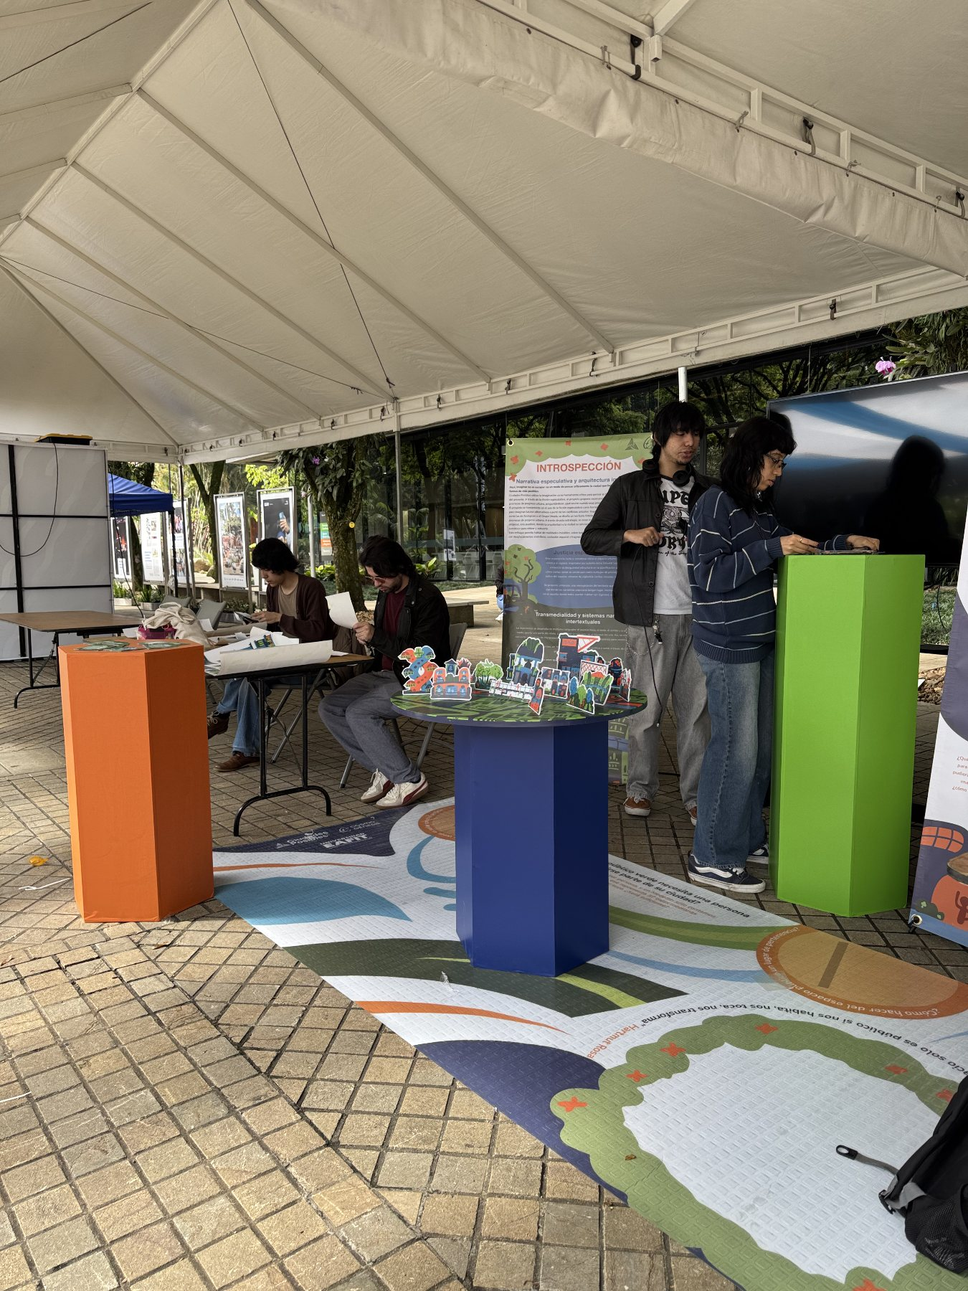
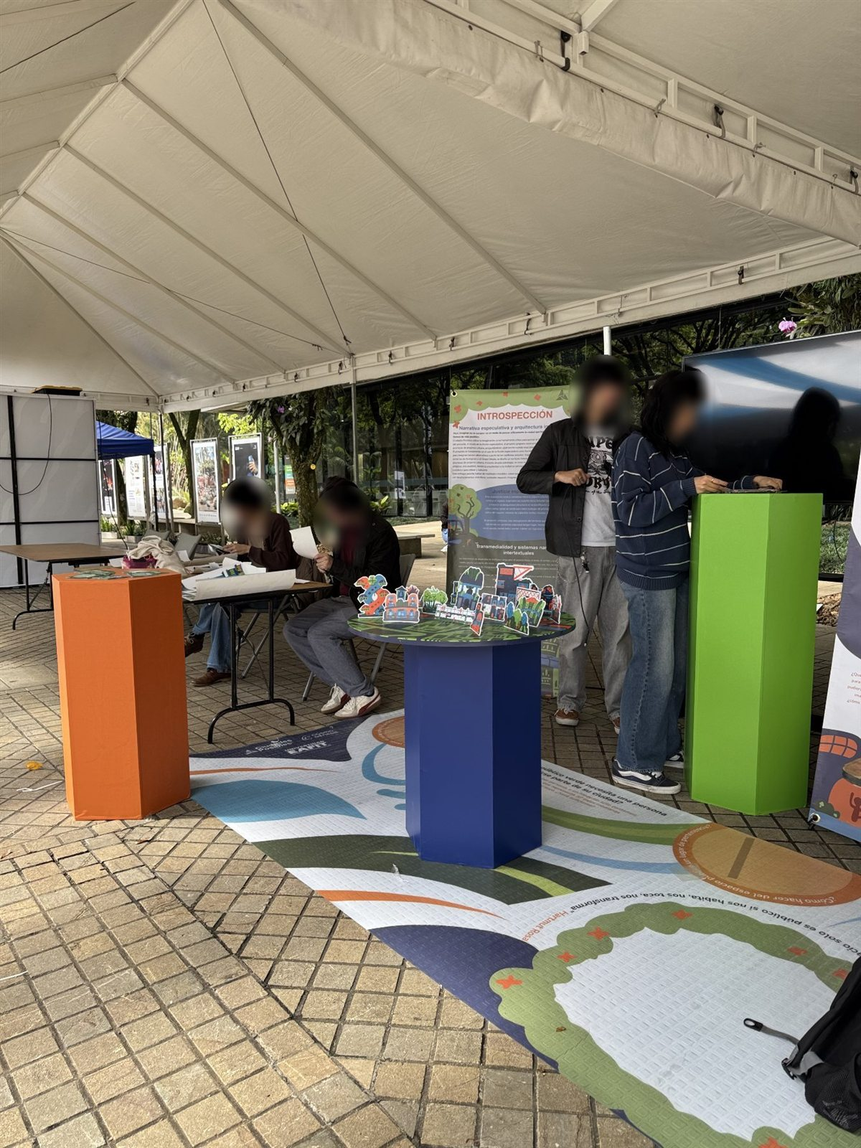
Ciudades: blurred visitor photos as the end; VR haptics wording and DOI link; Consumer AI note; final spelling and consistency pass

diff --git a/project-ciudades-posibles.html b/project-ciudades-posibles.html
@@ -25,7 +25,7 @@
   <meta name="description" content="A speculative-design research project turning public-space inequality in Medellín's Distrito SUR into a participatory, physical decision-making experience for residents." />
   <link rel="icon" href="assets/favicon.svg" type="image/svg+xml" />
 
-  <link rel="stylesheet" href="styles.css?v=20261005b" />
+  <link rel="stylesheet" href="styles.css?v=20261005c" />
 </head>
 <body>
 
@@ -276,8 +276,14 @@
         <a data-stage="Middle" href="assets/ciudades-posibles/02-floor-mat-orange.jpg" target="_blank" rel="noopener"><img src="assets/ciudades-posibles/02-floor-mat-orange.jpg" alt="Floor mat design: a circular satellite map ringed with green foliage under the question of how much green public space a person needs." width="3000" height="3000" loading="lazy" /></a>
         <a data-stage="Middle" href="assets/ciudades-posibles/03-floor-mat-blue.jpg" target="_blank" rel="noopener"><img src="assets/ciudades-posibles/03-floor-mat-blue.jpg" alt="Floor mat variant on a dark blue background with the same circular map and foliage." width="3000" height="3000" loading="lazy" /></a>
         <a data-stage="Middle" href="assets/ciudades-posibles/04-floor-guide.jpg" target="_blank" rel="noopener"><img src="assets/ciudades-posibles/04-floor-guide.jpg" alt="Floor mat with pale guide paths showing visitors the steps of the experience." width="3000" height="3000" loading="lazy" /></a>
-<a data-stage="End" href="assets/ciudades-posibles/09-exhibition-people.jpg" target="_blank" rel="noopener"><img src="assets/ciudades-posibles/09-exhibition-people.jpg" alt="Visitors using the Ciudades Posibles stand at an EAFIT event: two people working at the green pedestal beside the blue tabletop map, with the printed floor mat and the Introspección banner behind." width="1350" height="1800" loading="lazy" /></a>        <a data-stage="End" href="assets/ciudades-posibles/10-exhibition-stand.jpg" target="_blank" rel="noopener"><img src="assets/ciudades-posibles/10-exhibition-stand.jpg" alt="The finished Ciudades Posibles stand under a tent: the Introspección and Fundamentación banners, the tabletop city map on a blue pedestal, an orange and a green pedestal, and the printed floor mat." width="1350" height="1800" loading="lazy" /></a>
         <a data-stage="End" href="assets/ciudades-posibles/01-exhibition-render.jpg" target="_blank" rel="noopener"><img src="assets/ciudades-posibles/01-exhibition-render.jpg" alt="3D render of the exhibition setup: a round table with the hexagon city map, two poster stands and a green pedestal on an orange mat." width="3000" height="3000" loading="lazy" /></a>
+        <a data-stage="End" href="assets/ciudades-posibles/10-exhibition-stand.jpg" target="_blank" rel="noopener"><img src="assets/ciudades-posibles/10-exhibition-stand.jpg" alt="The finished Ciudades Posibles stand under a tent: the Introspección and Fundamentación banners, the tabletop city map on a blue pedestal, an orange and a green pedestal, and the printed floor mat." width="1350" height="1800" loading="lazy" /></a>
+        <a data-stage="End" href="assets/ciudades-posibles/15-tabletop-map.jpg" target="_blank" rel="noopener"><img src="assets/ciudades-posibles/15-tabletop-map.jpg" alt="The round tabletop map at the event, printed with green blocks, an orange avenue and a blue river, with the cut-out city pieces standing on it." width="1600" height="1200" loading="lazy" /></a>
+        <a data-stage="End" href="assets/ciudades-posibles/13-city-pieces-closeup.jpg" target="_blank" rel="noopener"><img src="assets/ciudades-posibles/13-city-pieces-closeup.jpg" alt="Close-up of the illustrated cut-out city pieces standing on the map: a mossy dome building, a house with balconies, a footbridge and a bus-like building." width="1600" height="1200" loading="lazy" /></a>
+        <a data-stage="End" href="assets/ciudades-posibles/14-map-from-above.jpg" target="_blank" rel="noopener"><img src="assets/ciudades-posibles/14-map-from-above.jpg" alt="The tabletop map and the printed floor mat seen from above, with the question about how much green public space a person needs." width="1200" height="1600" loading="lazy" /></a>
+        <a data-stage="End" href="assets/ciudades-posibles/11-visitor-building-city.jpg" target="_blank" rel="noopener"><img src="assets/ciudades-posibles/11-visitor-building-city.jpg" alt="A visitor placing a cut-out building on the tabletop map while others work at a table behind her. Faces are blurred." width="1200" height="1600" loading="lazy" /></a>
+        <a data-stage="End" href="assets/ciudades-posibles/12-visitors-at-map.jpg" target="_blank" rel="noopener"><img src="assets/ciudades-posibles/12-visitors-at-map.jpg" alt="Two visitors leaning over the tabletop map to place pieces, with the Fundamentación banner behind them. Faces are blurred." width="1200" height="1600" loading="lazy" /></a>
+        <a data-stage="End" href="assets/ciudades-posibles/09-exhibition-people.jpg" target="_blank" rel="noopener"><img src="assets/ciudades-posibles/09-exhibition-people.jpg" alt="Visitors at the Ciudades Posibles stand at an EAFIT event: two people at the green pedestal and two seated at a table, with the Introspección banner behind. Faces are blurred." width="1200" height="1600" loading="lazy" /></a>
         <a data-stage="End" href="assets/ciudades-posibles/07-research-poster.jpg" target="_blank" rel="noopener"><img src="assets/ciudades-posibles/07-research-poster.jpg" alt="The research poster for Ciudades Posibles, in Spanish: objectives, theoretical base (Ethos, Topos, Mythos), survey results from Las Vegas, and the three stations Introspección, Fundamentación and Construcción." width="1800" height="2399" loading="lazy" /></a>
       </div>
 
@@ -291,7 +297,7 @@
     </div>
   </footer>
 
-  <script src="script.js?v=20261005b"></script>
-  <script src="case-study.js?v=20261005b"></script>
+  <script src="script.js?v=20261005c"></script>
+  <script src="case-study.js?v=20261005c"></script>
 </body>
 </html>

diff --git a/index.html b/index.html
@@ -38,7 +38,7 @@
   <!-- The little icon in the browser tab. Replace assets/favicon.svg with your own. -->
   <link rel="icon" href="assets/favicon.svg" type="image/svg+xml" />
 
-  <link rel="stylesheet" href="styles.css?v=20261005b" />
+  <link rel="stylesheet" href="styles.css?v=20261005c" />
 
   <!-- The 3D lotus on the landing screen (landing-3d.js) uses Three.js,
        loaded straight from a CDN — no build step, same "just open
@@ -58,13 +58,13 @@
   <script src="https://unpkg.com/three@0.140.0/build/three.min.js" defer></script>
   <script src="https://unpkg.com/three@0.140.0/examples/js/loaders/GLTFLoader.js" defer></script>
   <script src="https://unpkg.com/three@0.140.0/examples/js/loaders/OBJLoader.js" defer></script>
-  <script src="landing-3d.js?v=20261005b" defer></script>
+  <script src="landing-3d.js?v=20261005c" defer></script>
   <!-- Dust/stars, drifting colour droplets and the glowing connections
        between the orbs and motto words — plain 2D canvas, no libraries. -->
-  <script src="landing-fx.js?v=20261005b" defer></script>
+  <script src="landing-fx.js?v=20261005c" defer></script>
   <!-- The Projects section: filter, the draggable card board, and the
        hero's arched statement. -->
-  <script src="projects-board.js?v=20261005b" defer></script>
+  <script src="projects-board.js?v=20261005c" defer></script>
 </head>
 <body>
 
@@ -313,7 +313,7 @@
                 <div class="pcard__media"><img src="assets/cards/siata.jpg" alt="Prototype map screen with an active-layers panel to switch rain, air quality and river level on and off." loading="lazy" decoding="async" draggable="false" style="object-position: 50% 62%" /><span class="pcard__pill">Featured</span></div>
                 <div class="pcard__body">
                   <h3 class="pcard__title">SIATA Geoportal Ciudadanos</h3>
-                  <p class="pcard__hook">Most people don't even know this citizen weather portal exists.</p>
+                  <p class="pcard__hook">Search "siata" and you land on the technical site, not the citizen portal.</p>
                   <p class="pcard__brief">Five of us redesigned Medellín's weather-and-risk portal. I ran the interviews and built the working prototype.</p>
                 </div>
                 <div class="pcard__skills" aria-label="Main skills">
@@ -426,7 +426,7 @@
                 <div class="pcard__body">
                   <h3 class="pcard__title">Hansel &amp; Gretel: Blood and Crumbs</h3>
                   <p class="pcard__hook">Mock the legend, then get lost in the forest where it happened.</p>
-                  <p class="pcard__brief">I led development and made the final build of this Unity survival-horror game, in a team of about six.</p>
+                  <p class="pcard__brief">I led development and made the final build of this Unity survival-horror game, in a team of six.</p>
                 </div>
                 <div class="pcard__skills" aria-label="Main skills">
                   <ul class="pgroup"><li>Unity 3D development</li><li>Scripting &amp; game mechanics</li><li>NavMesh &amp; NPCs</li><li>Debugging</li><li>Horror game design</li></ul>
@@ -537,7 +537,7 @@
               <p class="pcard__kicker"><span>Research seedbed · Universidad EAFIT · ongoing</span></p>
               <h3 class="pcard__title">VR &amp; Emotion Research</h3>
               <p class="pcard__hook">Can the emotions you feel in VR change how well you think?</p>
-              <p class="pcard__brief">One of three developers on a live study. I built the haptics, the onboarding tutorial and the emotion check-in.</p>
+              <p class="pcard__brief">One of three developers on a live study. I researched the haptics, then built the onboarding tutorial and the emotion check-in.</p>
               <div class="pcard__skills" aria-label="Main skills">
                 <ul class="pgroup"><li>Unity</li><li>Haptics</li><li>VR onboarding</li><li>Emotion questionnaire</li><li>GitHub</li></ul>
               </div>
@@ -685,7 +685,7 @@
       <h2 class="section__title">Skills</h2>
       <p class="section__intro">
         What I can do as an interactive designer, grouped by area. They come
-        from what I did in my projects and jobs, and from what I learned
+        from what I did in my projects and jobs, and from what I learnt
         alongside my teammates.
       </p>
 
@@ -742,7 +742,7 @@
           <h3 class="skills__title">VR &amp; Immersive</h3>
           <ul class="skills__list">
             <li>VR interaction design (Meta Quest 3)</li>
-            <li>Haptic feedback</li>
+            <li>Haptic feedback (researched)</li>
             <li>Onboarding &amp; tutorial design</li>
             <li>In-experience emotion check-ins</li>
             <li>Environmental storytelling</li>
@@ -971,6 +971,6 @@
     <p class="viewer__caption" id="viewerCaption"></p>
   </dialog>
 
-  <script src="script.js?v=20261005b"></script>
+  <script src="script.js?v=20261005c"></script>
 </body>
 </html>

diff --git a/project-el-feeling.html b/project-el-feeling.html
@@ -28,7 +28,7 @@
   <meta name="description" content="A ground-up e-commerce website design for El Feeling, a skating brand: information architecture, brand manual, UI kit and MVP." />
   <link rel="icon" href="assets/favicon.svg" type="image/svg+xml" />
 
-  <link rel="stylesheet" href="styles.css?v=20261005b" />
+  <link rel="stylesheet" href="styles.css?v=20261005c" />
 </head>
 <body>
 
@@ -278,8 +278,8 @@
         <a data-stage="Beginning" href="assets/el-feeling/10-survey-summary.jpg" target="_blank" rel="noopener"><img src="assets/el-feeling/10-survey-summary.jpg" alt="Slide summarising the survey of Medellín roller-skate community members." width="1610" height="1080" loading="lazy" /></a>
 <a data-stage="Beginning" href="assets/el-feeling/11-user-archetype.jpg" target="_blank" rel="noopener"><img src="assets/el-feeling/11-user-archetype.jpg" alt="The user archetype card for a 21-year-old part-time student in Medellín who skates three to four times a week, with her goals, frustrations, habits and technology use." width="1610" height="1080" loading="lazy" /></a>
         <a data-stage="Beginning" href="assets/el-feeling/12-project-schedule.jpg" target="_blank" rel="noopener"><img src="assets/el-feeling/12-project-schedule.jpg" alt="Project schedule from February to May, with tasks from interview questions and the brief to the UI kit, individual pages and interaction animations." width="1610" height="1080" loading="lazy" /></a>
-        <a data-stage="Beginning" data-stage="Beginning" href="assets/el-feeling/03-information-architecture.jpg" class="gallery__wide" data-lang="es" data-pair="ia" target="_blank" rel="noopener"><img src="assets/el-feeling/03-information-architecture.jpg" alt="Information architecture diagram for the El Feeling website showing how pages, classes, products and booking connect." width="2700" height="2700" loading="lazy" /></a>
-<a data-stage="Beginning" data-stage="Beginning" href="assets/el-feeling/03-information-architecture-en.jpg" data-lang="en" data-pair="ia" target="_blank" rel="noopener"><img src="assets/el-feeling/03-information-architecture-en.jpg" alt="The same information architecture in English: Home, then a menu with Products, Classes, Shopping Cart, Search Bar and Who are we?, the customisation and purchase flows, and the needs, objectives and relationship with the service below." width="3000" height="3000" loading="lazy" /></a>
+        <a data-stage="Beginning" href="assets/el-feeling/03-information-architecture.jpg" class="gallery__wide" data-lang="es" data-pair="ia" target="_blank" rel="noopener"><img src="assets/el-feeling/03-information-architecture.jpg" alt="Information architecture diagram for the El Feeling website showing how pages, classes, products and booking connect." width="2700" height="2700" loading="lazy" /></a>
+<a data-stage="Beginning" href="assets/el-feeling/03-information-architecture-en.jpg" data-lang="en" data-pair="ia" target="_blank" rel="noopener"><img src="assets/el-feeling/03-information-architecture-en.jpg" alt="The same information architecture in English: Home, then a menu with Products, Classes, Shopping Cart, Search Bar and Who are we?, the customisation and purchase flows, and the needs, objectives and relationship with the service below." width="3000" height="3000" loading="lazy" /></a>
         <a data-stage="Middle" href="assets/el-feeling/07-brand-manual.jpg" target="_blank" rel="noopener"><img src="assets/el-feeling/07-brand-manual.jpg" alt="El Feeling brand manual page with the retro logo, colour palette, typography and sticker elements." width="2100" height="3730" loading="lazy" /></a>
         <a data-stage="Middle" href="assets/el-feeling/08-ui-kit-buttons.jpg" target="_blank" rel="noopener"><img src="assets/el-feeling/08-ui-kit-buttons.jpg" alt="UI kit page &quot;Botones PC&quot; with primary, secondary and icon buttons in different states." width="1439" height="1024" loading="lazy" /></a>
         <a data-stage="Middle" href="assets/el-feeling/09-ui-kit-cards.jpg" target="_blank" rel="noopener"><img src="assets/el-feeling/09-ui-kit-cards.jpg" alt="UI kit page &quot;Cards&quot; showing the desktop and phone card components." width="2100" height="1667" loading="lazy" /></a>
@@ -300,7 +300,7 @@
     </div>
   </footer>
 
-  <script src="script.js?v=20261005b"></script>
-  <script src="case-study.js?v=20261005b"></script>
+  <script src="script.js?v=20261005c"></script>
+  <script src="case-study.js?v=20261005c"></script>
 </body>
 </html>

diff --git a/project-vr-emotion-research.html b/project-vr-emotion-research.html
@@ -22,7 +22,7 @@
   <meta name="description" content="Developer on a university research project using VR simulations to elicit emotions and study their impact on cognitive tasks: haptics research, onboarding tutorial and pre/post emotion questionnaire." />
   <link rel="icon" href="assets/favicon.svg" type="image/svg+xml" />
 
-  <link rel="stylesheet" href="styles.css?v=20261005b" />
+  <link rel="stylesheet" href="styles.css?v=20261005c" />
 </head>
 <body>
 
@@ -116,8 +116,9 @@
             <strong class="lede">One of three main developers</strong>
             on a shared GitHub project, in Unity. My first task for my
             teacher and the seedbed was to research haptics and learn how
-            touch relates to emotion. I did not implement the haptics.
-            After that I worked and developed in the project: I built the
+            touch relates to emotion. I learnt how the haptics could be
+            implemented and why they matter for the experience, but I did
+            not implement them in the project itself. After that I worked and developed in the project: I built the
             onboarding tutorial and the emotion questionnaire.
           </p>
         </div>
@@ -129,7 +130,7 @@
         <ol class="process-steps">
           <li>
             <span class="step__date">Haptics research</span>
-            <p>My first task. I researched and learnt how vibration relates to emotion, and reviewed the studies in a matrix. This was the groundwork for the team's use of touch in the experience.</p>
+            <p>My first task. I researched how vibration relates to emotion, reviewed the studies in a matrix, and learnt how the haptics would be implemented and why they are relevant. I did not build them into the project, so this is groundwork and understanding, not shipped code.</p>
           </li>
           <li>
             <span class="step__date">Onboarding</span>
@@ -144,7 +145,7 @@
           <summary>The research behind the haptics</summary>
           <div class="more__body">
             <p>
-              My notes start from one idea: different vibrations can
+              These notes are my own summary of the research article, and the mapping below is mine. They start from one idea: different vibrations can
               produce different feelings. I explored the vibro-tactile side
               of the controllers and headset, and summarised what studies
               say. One 2025 study I reviewed links each feeling to a pattern
@@ -158,7 +159,7 @@
               The studies I worked from:
               <a href="https://drive.google.com/file/d/1G7bGfotGdWFp-xg6vwn8nZvLS3xGIw8_/view?usp=sharing" target="_blank" rel="noopener">Haptic Vibrations in Emotion Induction and Regulation, 2025 (PDF) ↗</a>
               and
-              <a href="https://scispace.com/papers/haptic-feedback-in-a-virtual-crowd-scenario-improves-the-3n6eclvtyy" target="_blank" rel="noopener">Haptic feedback in a virtual crowd scenario improves the emotional response, 2023 ↗</a>.
+              <a href="https://doi.org/10.3389/frvir.2023.1242587" target="_blank" rel="noopener">Haptic feedback in a virtual crowd scenario improves the emotional response, Venkatesan et al., 2023 ↗</a>.
             </p>
           </div>
         </details>
@@ -234,7 +235,7 @@
     </div>
   </footer>
 
-  <script src="script.js?v=20261005b"></script>
-  <script src="case-study.js?v=20261005b"></script>
+  <script src="script.js?v=20261005c"></script>
+  <script src="case-study.js?v=20261005c"></script>
 </body>
 </html>

diff --git a/project-consumer-behaviour.html b/project-consumer-behaviour.html
@@ -19,7 +19,7 @@
   <meta name="description" content="A consumer profile built from seven structured questionnaires, and the marketing strategy for a new footwear brand that follows from it: product, price, place and promotion, each justified with evidence and theory." />
   <link rel="icon" href="assets/favicon.svg" type="image/svg+xml" />
 
-  <link rel="stylesheet" href="styles.css?v=20261005b" />
+  <link rel="stylesheet" href="styles.css?v=20261005c" />
 </head>
 <body>
 
@@ -119,7 +119,7 @@
             <li>Chose the consumer: a 20-year-old international exchange student studying design, who had just bought FILA sneakers.</li>
             <li>Ran seven structured written questionnaires with her, plus secondary research.</li>
             <li>Analysed the answers with the course's concepts and wrote the profile and the recommendations.</li>
-            <li>Prepared the oral justification. I used a step-by-step guide as a base, then rewrote the marketing mix by hand in my own words to check I understood every recommendation. The oral discussion went well.</li>
+            <li>Prepared the oral justification. I used AI to help synthesise my findings from the tutorials into the marketing mix, then rewrote it by hand in my own words to check I understood every recommendation. The oral discussion went well.</li>
             <li>Used AI to help organise the written data, edit my first sketches and format the report. The consumer data, answers and analytical judgements are my own, and the report says so.</li>
           </ul>
         </div>
@@ -274,7 +274,7 @@
     </div>
   </footer>
 
-  <script src="script.js?v=20261005b"></script>
-  <script src="case-study.js?v=20261005b"></script>
+  <script src="script.js?v=20261005c"></script>
+  <script src="case-study.js?v=20261005c"></script>
 </body>
 </html>

diff --git a/project-hansel-gretel.html b/project-hansel-gretel.html
@@ -25,10 +25,10 @@
   <meta charset="UTF-8" />
   <meta name="viewport" content="width=device-width, initial-scale=1.0" />
   <title>Hansel &amp; Gretel: Blood and Crumbs — Mónica Arcila</title>
-  <meta name="description" content="A 3D horror survival game in Unity where a skeptic gets lost in the same forest as a local legend. Mónica led development on a team project and made the final build." />
+  <meta name="description" content="A 3D horror survival game in Unity where a sceptic gets lost in the same forest as a local legend. Mónica led development on a team project and made the final build." />
   <link rel="icon" href="assets/favicon.svg" type="image/svg+xml" />
 
-  <link rel="stylesheet" href="styles.css?v=20261005b" />
+  <link rel="stylesheet" href="styles.css?v=20261005c" />
 </head>
 <body>
 
@@ -287,7 +287,7 @@
     </div>
   </footer>
 
-  <script src="script.js?v=20261005b"></script>
-  <script src="case-study.js?v=20261005b"></script>
+  <script src="script.js?v=20261005c"></script>
+  <script src="case-study.js?v=20261005c"></script>
 </body>
 </html>

diff --git a/project-siata.html b/project-siata.html
@@ -22,7 +22,7 @@
   <meta name="description" content="A Lean UX redesign of SIATA's citizen weather-and-risk portal for Medellín: interviews, tree testing, collaborative prototyping, a working mobile-web prototype and a Hotjar + Maze evaluation." />
   <link rel="icon" href="assets/favicon.svg" type="image/svg+xml" />
 
-  <link rel="stylesheet" href="styles.css?v=20261005b" />
+  <link rel="stylesheet" href="styles.css?v=20261005c" />
 </head>
 <body>
 
@@ -357,7 +357,7 @@
     </div>
   </footer>
 
-  <script src="script.js?v=20261005b"></script>
-  <script src="case-study.js?v=20261005b"></script>
+  <script src="script.js?v=20261005c"></script>
+  <script src="case-study.js?v=20261005c"></script>
 </body>
 </html>

diff --git a/project-meldiria.html b/project-meldiria.html
@@ -36,7 +36,7 @@
   <meta name="description" content="A fully specified narrative universe — its own physics, society, laws and economy — built with a Mythos/Ethos/Topos framework to anchor a 2D videogame, artbook and personality quiz." />
   <link rel="icon" href="assets/favicon.svg" type="image/svg+xml" />
 
-  <link rel="stylesheet" href="styles.css?v=20261005b" />
+  <link rel="stylesheet" href="styles.css?v=20261005c" />
 </head>
 <body>
 
@@ -346,7 +346,7 @@
     </div>
   </footer>
 
-  <script src="script.js?v=20261005b"></script>
-  <script src="case-study.js?v=20261005b"></script>
+  <script src="script.js?v=20261005c"></script>
+  <script src="case-study.js?v=20261005c"></script>
 </body>
 </html>

diff --git a/project-surviving-amongst-nature.html b/project-surviving-amongst-nature.html
@@ -22,7 +22,7 @@
   <meta name="description" content="A repeatable AI image-generation recipe mixing Resident Evil survival-horror objects with dragonfly anatomy, documented through its full trial-and-error prompt-engineering process." />
   <link rel="icon" href="assets/favicon.svg" type="image/svg+xml" />
 
-  <link rel="stylesheet" href="styles.css?v=20261005b" />
+  <link rel="stylesheet" href="styles.css?v=20261005c" />
 </head>
 <body>
 
@@ -279,7 +279,7 @@
     </div>
   </footer>
 
-  <script src="script.js?v=20261005b"></script>
-  <script src="case-study.js?v=20261005b"></script>
+  <script src="script.js?v=20261005c"></script>
+  <script src="case-study.js?v=20261005c"></script>
 </body>
 </html>

diff --git a/project-night-at-the-museum.html b/project-night-at-the-museum.html
@@ -29,7 +29,7 @@
   <meta name="description" content="A VR/mixed-reality narrative prototype where a magic paintbrush is both the story's core object and an interaction validated step-by-step against Don Norman's Model of Action." />
   <link rel="icon" href="assets/favicon.svg" type="image/svg+xml" />
 
-  <link rel="stylesheet" href="styles.css?v=20261005b" />
+  <link rel="stylesheet" href="styles.css?v=20261005c" />
 </head>
 <body>
 
@@ -315,7 +315,7 @@
     </div>
   </footer>
 
-  <script src="script.js?v=20261005b"></script>
-  <script src="case-study.js?v=20261005b"></script>
+  <script src="script.js?v=20261005c"></script>
+  <script src="case-study.js?v=20261005c"></script>
 </body>
 </html>

diff --git a/project-nuris-greenhouse.html b/project-nuris-greenhouse.html
@@ -23,7 +23,7 @@
   <meta name="description" content="A VR environment that tells an unseen character's story through spatial design, props and sound alone, built for Virtual Reality Studio at Victoria University of Wellington." />
   <link rel="icon" href="assets/favicon.svg" type="image/svg+xml" />
 
-  <link rel="stylesheet" href="styles.css?v=20261005b" />
+  <link rel="stylesheet" href="styles.css?v=20261005c" />
 </head>
 <body>
 
@@ -296,7 +296,7 @@
     </div>
   </footer>
 
-  <script src="script.js?v=20261005b"></script>
-  <script src="case-study.js?v=20261005b"></script>
+  <script src="script.js?v=20261005c"></script>
+  <script src="case-study.js?v=20261005c"></script>
 </body>
 </html>

diff --git a/project-natures-embodiment-of-wine.html b/project-natures-embodiment-of-wine.html
@@ -21,7 +21,7 @@
   <meta name="description" content="A generative image system turning animals into Burlesque-staged portraits of wine, built around Kate Compton's 'ten thousand bowls of oatmeal' problem of generative design." />
   <link rel="icon" href="assets/favicon.svg" type="image/svg+xml" />
 
-  <link rel="stylesheet" href="styles.css?v=20261005b" />
+  <link rel="stylesheet" href="styles.css?v=20261005c" />
 </head>
 <body>
 
@@ -233,7 +233,7 @@
     </div>
   </footer>
 
-  <script src="script.js?v=20261005b"></script>
-  <script src="case-study.js?v=20261005b"></script>
+  <script src="script.js?v=20261005c"></script>
+  <script src="case-study.js?v=20261005c"></script>
 </body>
 </html>
